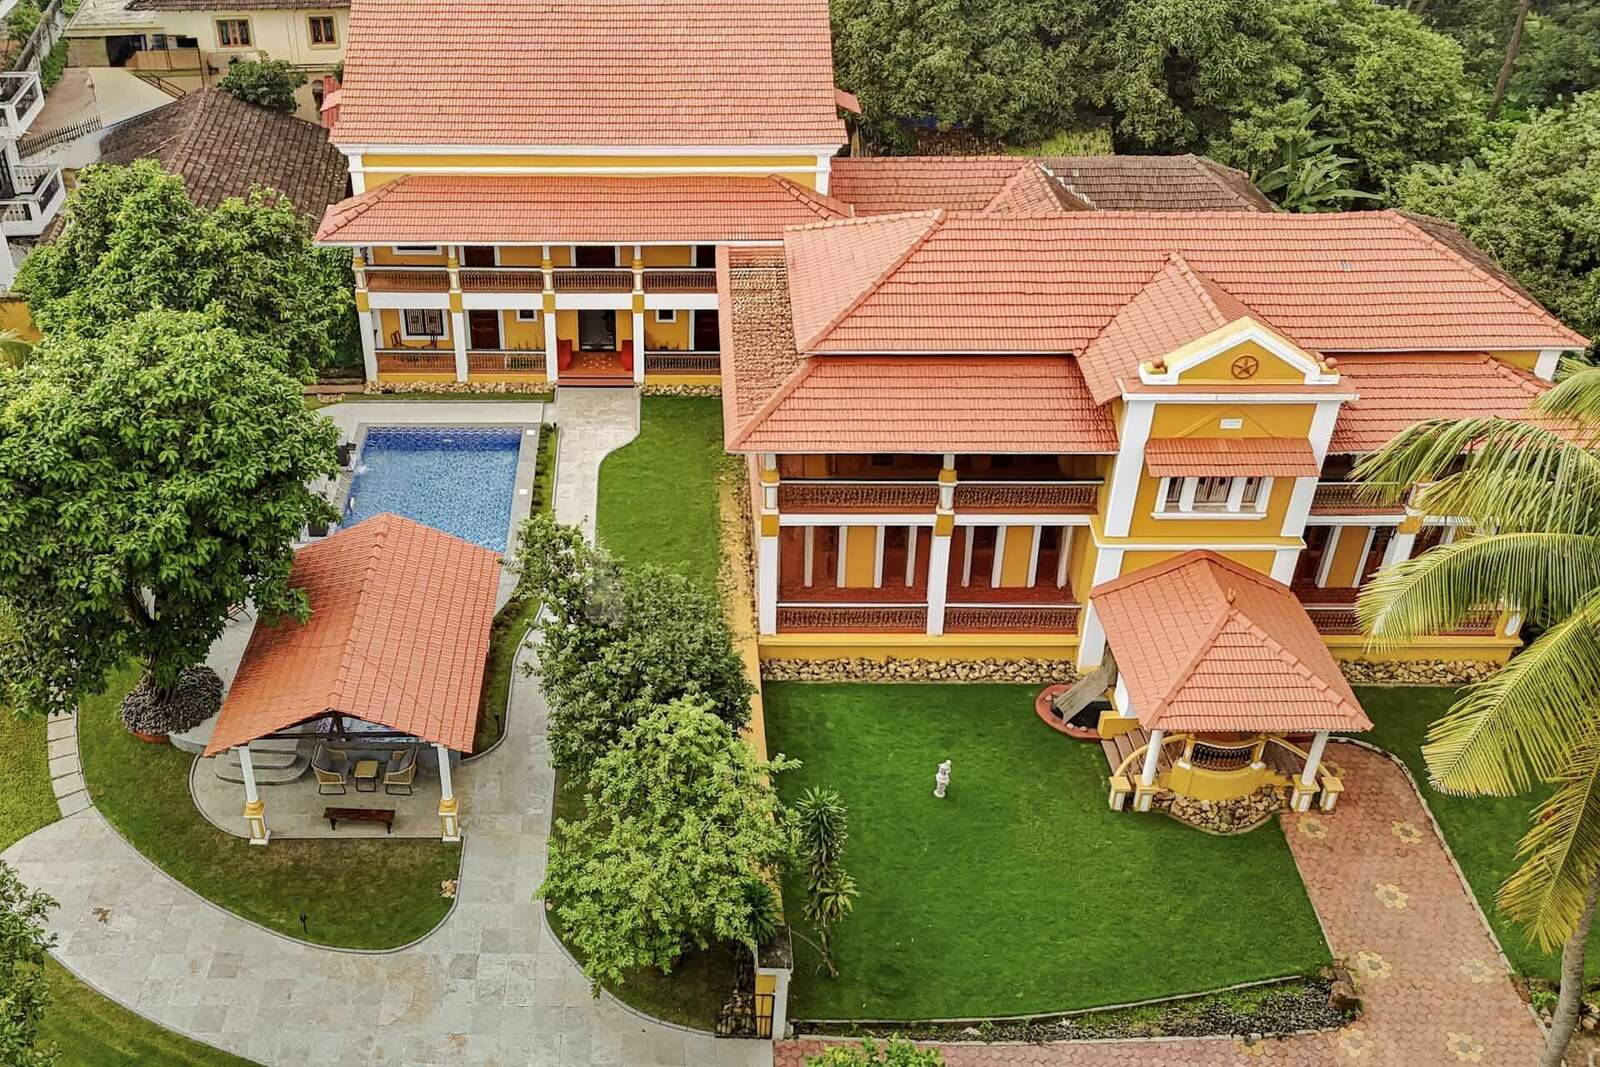
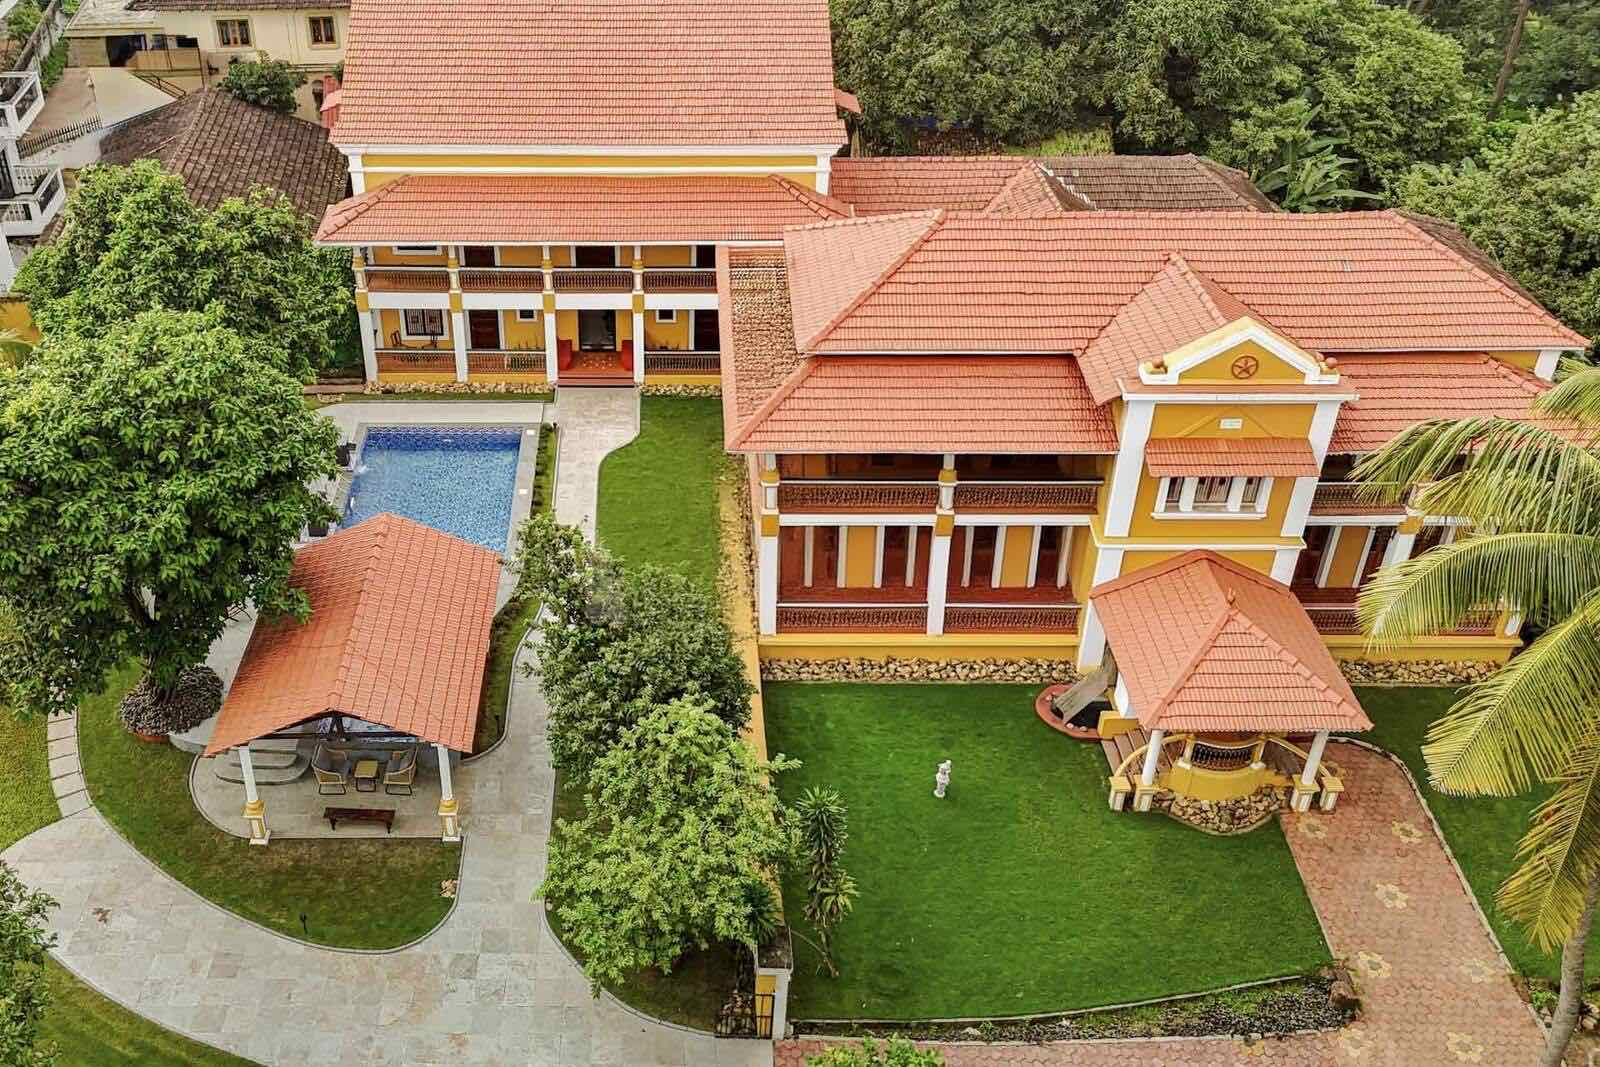
Remove Telegram visitor hook and optimize LCP hero image and font loading

diff --git a/src/routes/__root.tsx b/src/routes/__root.tsx
@@ -6,7 +6,7 @@ import {
   HeadContent,
   Scripts,
 } from "@tanstack/react-router";
-import { useEffect, type ReactNode } from "react";
+import type { ReactNode } from "react";
 
 import appCss from "../styles.css?url";
 
@@ -17,7 +17,6 @@ import { SpeedInsights } from "@vercel/speed-insights/react";
 import { Analytics } from "@vercel/analytics/react";
 import { WhatsAppFab } from "@/components/plix/whatsapp-fab";
 import { SITE_NAME, websiteJsonLd, jsonLdScript } from "@/lib/seo";
-import { notifyVisitorOnce } from "@/lib/visitor-notify";
 
 
 function NotFoundComponent() {
@@ -162,10 +161,6 @@ function RootShell({ children }: { children: ReactNode }) {
 
 function RootComponent() {
   const { queryClient } = Route.useRouteContext();
-
-  useEffect(() => {
-    notifyVisitorOnce();
-  }, []);
 
   return (
     <QueryClientProvider client={queryClient}>

diff --git a/src/components/plix/site-header.tsx b/src/components/plix/site-header.tsx
@@ -131,8 +131,8 @@ export function SiteHeader() {
           <img
             src="/Plix_Transparent_(1).png"
             alt="Plix Hospitality"
-            width={500}
-            height={500}
+            width={70}
+            height={70}
             className={`h-10 w-auto object-contain transition-all duration-300 md:h-12 lg:h-14 ${
               isHome && !homeSolid
                 ? "brightness-0 invert drop-shadow-[0_2px_12px_rgba(0,0,0,0.55)]"
